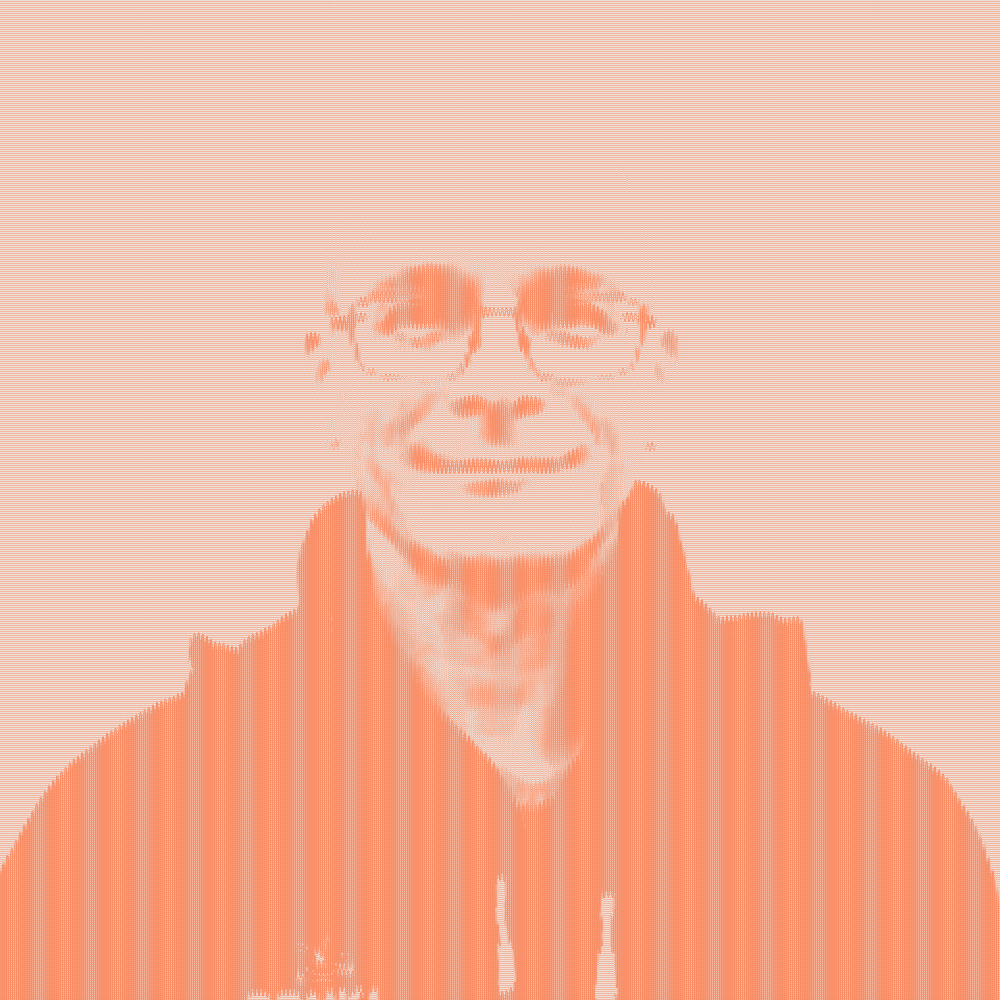
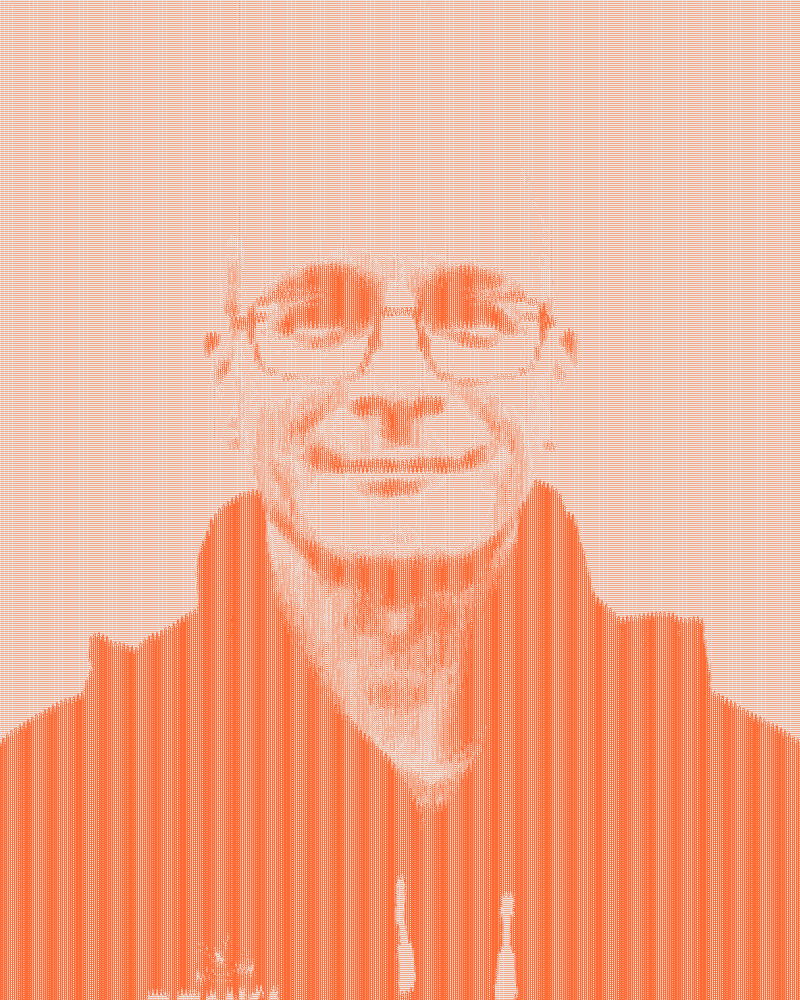
Swap in the official sinwave.vercel.app judge portraits
Use the attached exports for Simon, Eric, and Adam instead of the generated files.

diff --git a/src/judges.test.ts b/src/judges.test.ts
@@ -50,12 +50,12 @@ test("official sine-wave export keeps a square source square", () => {
   expect(officialWorkingSize(460, 460)).toEqual({ width: 1000, height: 1000 });
 });
 
-test("Adam portrait PNG is a square official export, not purple", async () => {
+test("Adam portrait PNG is the official sinwave export", async () => {
   const bytes = new Uint8Array(await Bun.file("src/assets/judges/adam-whitcroft-sinwave.png").arrayBuffer());
   expect(bytes[0]).toBe(0x89);
   const width = new DataView(bytes.buffer, bytes.byteOffset, bytes.byteLength).getUint32(16);
   const height = new DataView(bytes.buffer, bytes.byteOffset, bytes.byteLength).getUint32(20);
-  expect(width).toBe(1000);
+  expect(width).toBe(800);
   expect(height).toBe(1000);
 });
 

diff --git a/src/JudgesSection.tsx b/src/JudgesSection.tsx
@@ -102,8 +102,8 @@ export function JudgesSection() {
                 src={judge.photo}
                 alt=""
                 className="absolute inset-0 h-full w-full object-cover"
-                width={900}
-                height={1200}
+                width={800}
+                height={1000}
               />
             </div>
             <p className="type-sm">
